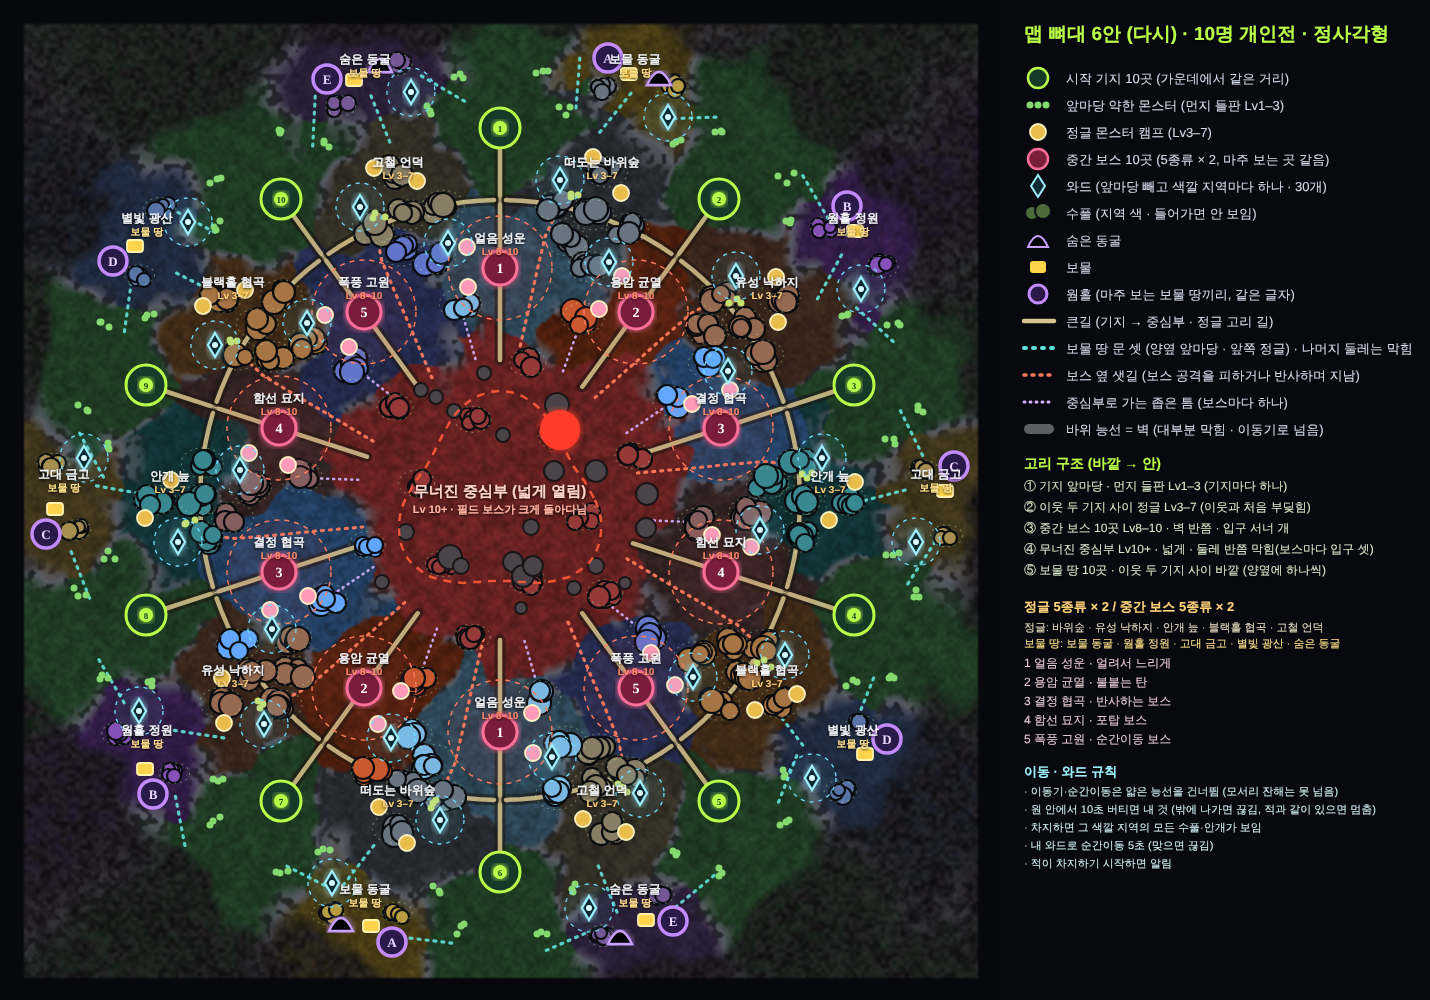
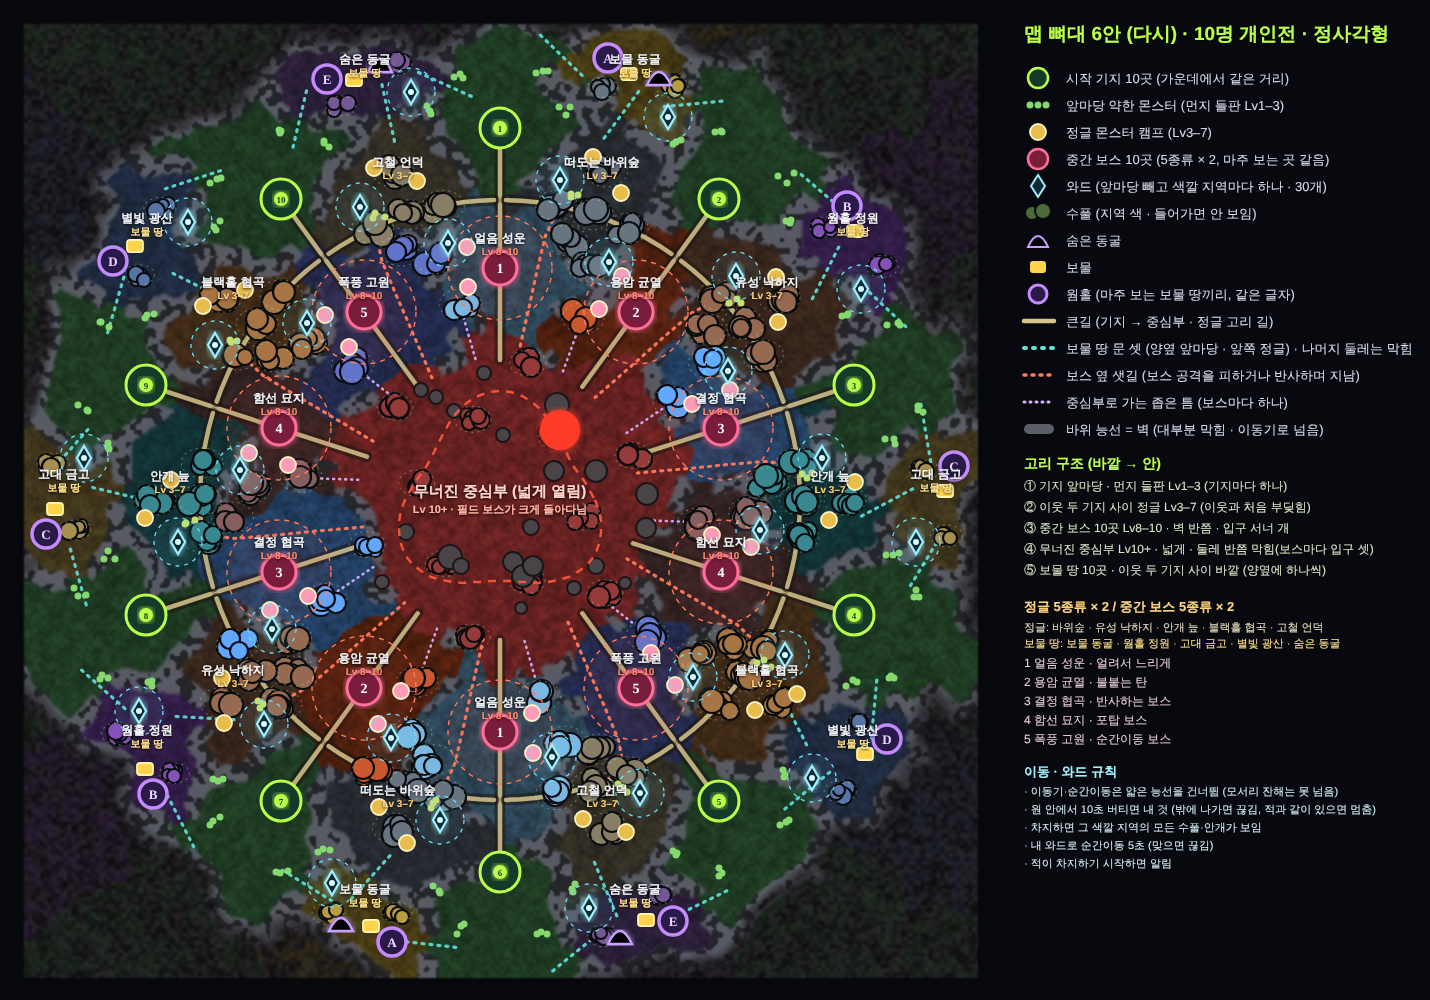
맵 설계도 = 게임 판정 그대로: 벽 두께 고정, 막힘/지나감 두 값, 갇힌 조각 정리, 문기둥
Claude-Session: https://claude.ai/code/session_01Vq6fV1iyS6nFsGgiQg3SJW

diff --git a/src/proto/worldview.js b/src/proto/worldview.js
@@ -1,9 +1,9 @@
 /* 맵 만들기 ① — 맵 6안(10명 개인전 · 정사각형)대로 바닥 · 지역 · 경계 능선 · 큰길 · 샛길 깔기
    보기: 끌면 이동, 두 손가락(휠)로 확대. 지역 이름표는 화면 위 글자. 시작 기지 자리는 빛 고리로만 표시(다음 단계에서 진짜 기지) */
 import * as THREE from 'three';
-import { makeBloom } from '../core/hangar/bloom.js?v=11030002';
-import { makeMapFloor, MAP, toWorld } from './mapfloor.js?v=11030002';
-import { makePerf } from './perf.js?v=11030002';
+import { makeBloom } from '../core/hangar/bloom.js?v=11030014';
+import { makeMapFloor, MAP, toWorld } from './mapfloor.js?v=11030014';
+import { makePerf } from './perf.js?v=11030014';
 
 const $ = s => document.querySelector(s), clamp = THREE.MathUtils.clamp;
 const VIEWS = [{ name: '게임 시점', h: 60, tilt: .3 }, { name: '지역 보기', h: 130, tilt: .25 }, { name: '맵 전체', h: 400, tilt: .02 }];
@@ -13,8 +13,8 @@ export async function start(canvas, onProgress = () => {}) {
   renderer.toneMapping = THREE.NoToneMapping; renderer.autoClear = false; renderer.setClearColor(0, 1);
   const scene = new THREE.Scene(), camera = new THREE.PerspectiveCamera(40, 1, 1, 3000), bloom = makeBloom(renderer, { samples: 0 });
   onProgress(.2);
-  const floor = await makeMapFloor(renderer, './assets/map/v6.png?v=11030002');
-  const J = await (await fetch('./assets/map/v6.json?v=11030002')).json();
+  const floor = await makeMapFloor(renderer, './assets/map/v6.png?v=11030014');
+  const J = await (await fetch('./assets/map/v6.json?v=11030014')).json();
   const SPAWN = J.spawns, ALL = [...J.labels.map(o => [o.x, o.y, o.n, o.l]), [500, 500, '무너진 중심부', 'Lv 10+']];
   onProgress(.7);
   /* 시작 기지 자리: 빛 고리 (임시) */
@@ -22,6 +22,45 @@ export async function start(canvas, onProgress = () => {}) {
     vertexShader: 'varying vec2 vP; void main(){ vP=position.xy; gl_Position=projectionMatrix*modelViewMatrix*vec4(position,1.); }',
     fragmentShader: 'uniform float uT; varying vec2 vP; void main(){ float r=length(vP); float q=(r-7.)/.6; float k=exp(-q*q)+exp(-r*r*.05)*.25*(.7+.3*sin(uT*2.)); gl_FragColor=vec4(vec3(.72,1.,.3)*k,1.); }' });
   for (const [px, py] of SPAWN) { const [x, z] = toWorld(px, py), m = new THREE.Mesh(new THREE.CircleGeometry(9, 64), ringM); m.rotation.x = -Math.PI / 2; m.position.set(x, .1, z); scene.add(m); }
+  /* 문: 길이 벽을 뚫고 지나가는 자리마다 문기둥 한 쌍 + 두 기둥 사이 바닥을 잇는 빛
+     · 왜: 벽이 끊긴 자리가 '실수로 빈 틈'이 아니라 '일부러 낸 문'이라는 걸 멀리서도 알아보게
+     · 기둥: 건메탈 몸통 + 금테 머리(기지와 같은 재료) · 안쪽 면에 빛 줄(문 종류 색)
+     · 바닥 빛: 기둥 안쪽 빛 줄에서 흘러나와 맞은편 기둥으로 건너감 → 두 기둥이 한 문틀이라는 게 보임
+       종류 색: 큰길 금빛 · 보물 땅 문 호박빛 · 보스 옆 샛길 붉은빛(위험) · 좁은 틈 보랏빛
+     무게: 기둥·머리·빛 줄·바닥 빛 각각 한 묶음(InstancedMesh) → 문이 백 개여도 그리기 4번 */
+  scene.add(new THREE.HemisphereLight(0x8a9ac0, 0x14100c, 1.1));
+  { const k = new THREE.DirectionalLight(0xfff0dc, 2.4); k.position.set(-60, 120, -40); scene.add(k); }
+  const GC = { road: [1, .78, .38], side: [1, .62, .22], aggro: [1, .3, .2], sneak: [.72, .45, 1] }, G = J.gates || [], S = MAP.SCALE;
+  const colM = new THREE.MeshStandardMaterial({ color: 0x4a4f58, metalness: .55, roughness: .42 });   /* 건메탈: 주변 반사 없이도 형태가 보이게 금속감 낮춤 */
+  const capM = new THREE.MeshStandardMaterial({ color: 0xd9a441, metalness: 1, roughness: .28, emissive: 0x3a2508 });
+  const slitM = new THREE.MeshBasicMaterial({ color: 0xffffff, toneMapped: false });
+  const colG = new THREE.CylinderGeometry(.5, .78, 3.4, 6); colG.translate(0, 1.7, 0);
+  const capG = new THREE.CylinderGeometry(.66, .5, .42, 6); capG.translate(0, 3.6, 0);
+  const slitG = new THREE.BoxGeometry(.14, 2.3, .34); slitG.translate(0, 1.75, 0);
+  const n2 = G.length * 2, cols = new THREE.InstancedMesh(colG, colM, n2), caps = new THREE.InstancedMesh(capG, capM, n2), slits = new THREE.InstancedMesh(slitG, slitM, n2);
+  const sillM = new THREE.ShaderMaterial({ transparent: true, depthWrite: false, blending: THREE.AdditiveBlending, uniforms: { uT: { value: 0 } },
+    vertexShader: 'varying vec2 vU; varying vec3 vC; varying float vS; void main(){ vU=uv; vC=instanceColor; vS=instanceMatrix[3].x*.13+instanceMatrix[3].z*.07; gl_Position=projectionMatrix*viewMatrix*modelMatrix*instanceMatrix*vec4(position,1.); }',
+    fragmentShader: `uniform float uT; varying vec2 vU; varying vec3 vC; varying float vS;
+      void main(){ float x=vU.x, y=vU.y-.5;
+        float edge=exp(-x*x*40.)+exp(-(1.-x)*(1.-x)*40.);                          /* 기둥 발밑: 빛이 나오는 곳 */
+        float band=exp(-y*y*60.);                                                    /* 문턱 한 줄 */
+        float p=fract(uT*.35+vS), d=x-p, d2=(1.-x)-p;                                /* 양쪽 기둥에서 가운데로 건너가는 빛 */
+        float run=exp(-d*d*90.)+exp(-d2*d2*90.);
+        float k=band*(.22+.55*run)+edge*band*.9;
+        gl_FragColor=vec4(vC*k,1.); }` });
+  const sillG = new THREE.PlaneGeometry(1, 1); sillG.rotateX(-Math.PI / 2);
+  const sills = new THREE.InstancedMesh(sillG, sillM, Math.max(1, G.length));
+  { const m = new THREE.Matrix4(), q = new THREE.Quaternion(), up = new THREE.Vector3(0, 1, 0), sc = new THREE.Vector3(), p = new THREE.Vector3(), c = new THREE.Color();
+    G.forEach((g, i) => { const [x, z] = toWorld(g.x, g.y), dx = Math.cos(g.a), dz = Math.sin(g.a), px = -dz, pz = dx, hw = g.w / 2 * S + .55;
+      const [r, gg, b] = GC[g.k] || GC.road; c.setRGB(r * 2.2, gg * 2.2, b * 2.2);
+      for (const s of [-1, 1]) { const j = i * 2 + (s > 0);
+        q.setFromAxisAngle(up, Math.atan2(-s * px, -s * pz)); p.set(x + px * hw * s, 0, z + pz * hw * s); sc.set(1, 1, 1);
+        m.compose(p, q, sc); cols.setMatrixAt(j, m); caps.setMatrixAt(j, m);
+        p.set(x + px * (hw - .55) * s, 0, z + pz * (hw - .55) * s); m.compose(p, q, sc); slits.setMatrixAt(j, m); slits.setColorAt(j, c); }
+      q.setFromAxisAngle(up, -Math.atan2(pz, px)); p.set(x, .12, z); sc.set(hw * 2, 1, 1.6); m.compose(p, q, sc); sills.setMatrixAt(i, m); c.setRGB(r, gg, b); sills.setColorAt(i, c); });
+    for (const o of [cols, caps, slits, sills]) { o.frustumCulled = false; scene.add(o); }
+    sills.renderOrder = 2; }
+
   /* 이름표 */
   const tagBox = $('#tags'), tags = ALL.map(([px, py, n, l]) => { const el = document.createElement('div'); el.className = 'tag'; el.innerHTML = `<b>${n}</b><span>${l}</span>`; tagBox.appendChild(el); const [x, z] = toWorld(px, py); return { el, p: new THREE.Vector3(x, 0, z) }; });
 
@@ -48,7 +87,7 @@ export async function start(canvas, onProgress = () => {}) {
     const dt = clamp((now - last) / 1000, 0, .05); last = now; t += dt;
     cam.h += (cam.H - cam.h) * Math.min(1, dt * 3); cam.tilt += (cam.T - cam.tilt) * Math.min(1, dt * 3);
     camera.position.set(cam.x, cam.h * Math.cos(cam.tilt), cam.z + cam.h * Math.sin(cam.tilt)); camera.lookAt(cam.x, 0, cam.z);
-    floor.update(t); ringM.uniforms.uT.value = t;
+    floor.update(t); ringM.uniforms.uT.value = t; sillM.uniforms.uT.value = t;
     for (const g of tags) { v.copy(g.p).project(camera); const on = v.z < 1 && Math.abs(v.x) < 1.1 && Math.abs(v.y) < 1.1;
       g.el.style.opacity = on ? 1 : 0; if (on) g.el.style.transform = `translate(${(v.x * .5 + .5) * cw}px,${(-v.y * .5 + .5) * ch}px) translate(-50%,-50%)`; }
     renderer.setRenderTarget(bloom.scene); renderer.clear(); floor.render(camera, bloom.scene); renderer.render(scene, camera);

diff --git a/src/proto/mapfloor.js b/src/proto/mapfloor.js
@@ -84,12 +84,14 @@ export async function makeMapFloor(renderer, url) {
         if (id==17) { float rb=texture2D(uN,vW.xz*.03).r; c = vec3(.035,.035,.04)*(.5+1.2*rb) + vec3(.06,.055,.05)*smoothstep(.55,.75,texture2D(uN,vW.xz*.11).b); }   /* 소행성 잔해: 울퉁불퉁 짙은 돌 */
         /* 지역 경계 = 짙은 바위 능선 (나중에 벽이 섬) */
         /* 바위 능선(벽 자리): 바닥보다 확 밝은 돌 띠 + 짙은 그림자 테두리 + 윗면 빛 → 멀리서도 '못 지나가는 곳'이 보이게 */
-        float rk = smoothstep(.12,.42,ridge);
-        float rim = smoothstep(.05,.14,ridge)*(1.-smoothstep(.16,.3,ridge))*(1.-smoothstep(.2,.45,road));   /* 띠 바깥 그림자 (길이 지나는 문에는 없음) */
+        /* 벽 자리 그림은 막힘(1)/지나감(0) 둘뿐 → 보이는 돌 띠 = 실제로 부딪히는 자리. 경계 판정은 게임과 같은 .5 */
+        float rk = smoothstep(.4,.6,ridge);
+        float sh = (texture2D(uRs,uv+vec2(.004,0.)).g + texture2D(uRs,uv-vec2(.004,0.)).g + texture2D(uRs,uv+vec2(0.,.004)).g + texture2D(uRs,uv-vec2(0.,.004)).g)*.25;
+        float rim = smoothstep(0.,.5,sh)*(1.-rk)*(1.-smoothstep(.2,.45,road));   /* 벽 바로 바깥 그림자: 벽이 바닥에서 솟아 있다는 느낌 (벽 크기는 안 바뀜) */
         float tn = texture2D(uN,vW.xz*.06).b, tn2 = texture2D(uN,vW.xz*.18).r;
         vec3 rockC = vec3(.30,.31,.34)*(.65+.55*tn) + vec3(.14,.14,.15)*smoothstep(.55,.8,tn2);      /* 밝은 회색 돌, 군데군데 더 밝은 면 */
-        rockC *= .75 + .45*smoothstep(.45,.9,ridge);                                                   /* 띠 가운데(등선)가 가장 밝음 */
-        c = mix(c, c*.25, rim);
+        rockC *= .8 + .35*smoothstep(.5,1.,sh);                                                         /* 벽 안쪽 깊은 곳(등선)이 더 밝음 */
+        c = mix(c, c*.3, rim*.85);
         c = mix(c, rockC, rk);
         /* 반짝임 물결 (지역마다) */
         vec2 gq=vW.xz*.5; vec2 gc=floor(gq); float gh=h2(gc);

diff --git a/src/proto/padringview.js b/src/proto/padringview.js
@@ -1,17 +1,17 @@
 /* 시작 기지 부품 보기 ① — 자기장 판(격납고 그대로) + 금테 네 갈래 별 */
 import * as THREE from 'three';
 import { RoomEnvironment } from 'three/addons/environments/RoomEnvironment.js';
-import { makeBloom } from '../core/hangar/bloom.js?v=11030002';
-import { makePad } from '../core/hangar/pad.js?v=11030002';
-import { makeMag } from '../core/hangar/mag.js?v=11030002';
+import { makeBloom } from '../core/hangar/bloom.js?v=11030014';
+import { makePad } from '../core/hangar/pad.js?v=11030014';
+import { makeMag } from '../core/hangar/mag.js?v=11030014';
 import { buildShip, engineSpots } from '../core/ships/build.js';
-import { makeGoldStar } from './goldstar.js?v=11030002';
-import { makeArena, SPEED, WAVE_R0 } from './arena.js?v=11030002';
-import { makeGuardians, GUARD } from './guardian.js?v=11030002';
-import { makeFloor, FLOORS } from './floor.js?v=11030002';
-import { makePerf } from './perf.js?v=11030002';
-import { makeBirth, BIRTH } from './birth.js?v=11030002';
-import { makeSortie, SORTIE } from './sortie.js?v=11030002';
+import { makeGoldStar } from './goldstar.js?v=11030014';
+import { makeArena, SPEED, WAVE_R0 } from './arena.js?v=11030014';
+import { makeGuardians, GUARD } from './guardian.js?v=11030014';
+import { makeFloor, FLOORS } from './floor.js?v=11030014';
+import { makePerf } from './perf.js?v=11030014';
+import { makeBirth, BIRTH } from './birth.js?v=11030014';
+import { makeSortie, SORTIE } from './sortie.js?v=11030014';
 
 const $ = s => document.querySelector(s), clamp = THREE.MathUtils.clamp;
 const SHIPL = 2.9;     /* 기체 길이: 자기장 판(지름 3.2)보다 약간 작게 */

diff --git a/src/proto/rockview.js b/src/proto/rockview.js
@@ -1,18 +1,18 @@
 /* 벽 보기 (지금은 용암 흑요석) — 맵 미리보기와 같은 하늘(행성 위 궤도), 같은 위에서 본 카메라 */
 import * as THREE from 'three';
 import { RoomEnvironment } from 'three/addons/environments/RoomEnvironment.js';
-import { makeBloom } from '../core/hangar/bloom.js?v=11030002';
-import { makePerf } from './perf.js?v=11030002';
+import { makeBloom } from '../core/hangar/bloom.js?v=11030014';
+import { makePerf } from './perf.js?v=11030014';
 import { buildShip, engineSpots } from '../core/ships/build.js';
 import { makeGlow } from '../preview/glow.js';
 import { planetShader } from '../core/planet.js';
 import { planetFor } from '../data/planets.js';
-import { makeIceRidge } from './ice.js?v=11030002';
-import { makeCrystalRidge } from './crystal.js?v=11030002';
-import { makeRuinRidge, updateRuins } from './ruins.js?v=11030002';
-import { makeCoralRidge } from './coral.js?v=11030002';
-import { makeWalls } from './wallhit.js?v=11030002';
-import { makeRidge, updateRidge, hitWall } from './rocks.js?v=11030002';
+import { makeIceRidge } from './ice.js?v=11030014';
+import { makeCrystalRidge } from './crystal.js?v=11030014';
+import { makeRuinRidge, updateRuins } from './ruins.js?v=11030014';
+import { makeCoralRidge } from './coral.js?v=11030014';
+import { makeWalls } from './wallhit.js?v=11030014';
+import { makeRidge, updateRidge, hitWall } from './rocks.js?v=11030014';
 
 const $ = s => document.querySelector(s), clamp = THREE.MathUtils.clamp, rnd = (a, b) => a + Math.random() * (b - a);
 const VIEWS = [

diff --git a/src/proto/baseview.js b/src/proto/baseview.js
@@ -5,17 +5,17 @@
    모든 움직임은 판의 자기장 주기(4.2초)에 맞춘다 — 판에 불이 다 들어오는 순간 기체가 뜬다. */
 import * as THREE from 'three';
 import { RoomEnvironment } from 'three/addons/environments/RoomEnvironment.js';
-import { makeBloom } from '../core/hangar/bloom.js?v=11030002';
-import { makePad } from '../core/hangar/pad.js?v=11030002';
-import { makeMag } from '../core/hangar/mag.js?v=11030002';
+import { makeBloom } from '../core/hangar/bloom.js?v=11030014';
+import { makePad } from '../core/hangar/pad.js?v=11030014';
+import { makeMag } from '../core/hangar/mag.js?v=11030014';
 import { buildShip, engineSpots } from '../core/ships/build.js';
 import { makeGlow } from '../preview/glow.js';
 import { filmMaterial, crystalMaterial } from '../preview/fxmat.js';
 import { planetShader } from '../core/planet.js';
 import { planetFor } from '../data/planets.js';
-import { makeRidge, updateRidge } from './rocks.js?v=11030002';
-import { makeFloor, FLOORS } from './floor.js?v=11030002';
-import { makePerf } from './perf.js?v=11030002';
+import { makeRidge, updateRidge } from './rocks.js?v=11030014';
+import { makeFloor, FLOORS } from './floor.js?v=11030014';
+import { makePerf } from './perf.js?v=11030014';
 
 const $ = s => document.querySelector(s), clamp = THREE.MathUtils.clamp, lerp = THREE.MathUtils.lerp, rnd = (a, b) => a + Math.random() * (b - a);
 const ease = t => t < .5 ? 4 * t * t * t : 1 - Math.pow(-2 * t + 2, 3) / 2;

diff --git a/index.html b/index.html
@@ -149,12 +149,12 @@ button{font:inherit;color:inherit;background:none;border:0;padding:0;cursor:poin
   <a class="sub" href="reflect.html">반사 시험판으로</a>
   <a class="sub" href="map.html?v=11021548">맵 미리보기</a>
   <a class="sub" href="tools/ships.html">기체·도색 보기</a>
-  <a class="sub" href="rocks.html?v=11030002">맵 벽 보기</a>
+  <a class="sub" href="rocks.html?v=11030014">맵 벽 보기</a>
   <a class="sub" href="floor.html?v=11021548">지역 바닥 보기</a>
-  <a class="sub" href="base.html?v=11030002">시작 기지 보기</a>
-  <a class="sub" href="padring.html?v=11030002">시작 기지: 태어나는 곳</a>
-  <a class="sub" href="fall.html?v=11030002">유성 시안</a>
-  <a class="sub" href="world.html?v=11030002">맵 만들기</a>
+  <a class="sub" href="base.html?v=11030014">시작 기지 보기</a>
+  <a class="sub" href="padring.html?v=11030014">시작 기지: 태어나는 곳</a>
+  <a class="sub" href="fall.html?v=11030014">유성 시안</a>
+  <a class="sub" href="world.html?v=11030014">맵 만들기</a>
 </div></section>
 <section class="card ask" id="lvup" hidden><div>
   <span class="en">LEVEL UP</span><h3 style="margin:0;font-weight:500;font-size:20px;color:var(--g)">레벨 2</h3>

diff --git a/src/proto/meteorview.js b/src/proto/meteorview.js
@@ -9,11 +9,11 @@
    무게: 빛 가닥 700개는 한 묶음으로 한 번에(위치는 셰이더가 계산), 부스러기는 점 묶음 한 번 */
 import * as THREE from 'three';
 import { RoomEnvironment } from 'three/addons/environments/RoomEnvironment.js';
-import { makeBloom } from '../core/hangar/bloom.js?v=11030002';
-import { makePad } from '../core/hangar/pad.js?v=11030002';
-import { makeGoldStar } from './goldstar.js?v=11030002';
-import { makePerf } from './perf.js?v=11030002';
-import { makeMeteor, METEOR } from './meteor.js?v=11030002';
+import { makeBloom } from '../core/hangar/bloom.js?v=11030014';
+import { makePad } from '../core/hangar/pad.js?v=11030014';
+import { makeGoldStar } from './goldstar.js?v=11030014';
+import { makePerf } from './perf.js?v=11030014';
+import { makeMeteor, METEOR } from './meteor.js?v=11030014';
 
 const $ = s => document.querySelector(s), clamp = THREE.MathUtils.clamp;
 const { FALL } = METEOR, LINGER = .8, REST = .7, CYCLE = REST + FALL + LINGER;

diff --git a/src/proto/ice.js b/src/proto/ice.js
@@ -6,7 +6,7 @@
    투명 재질(뒤를 비추는 계산)은 폰에 무거워서 쓰지 않고, 속은 보는 방향으로 몇 겹 들여다본 잡음으로 흉내 낸다. */
 import * as THREE from 'three';
 import { mergeVertices } from 'three/addons/utils/BufferGeometryUtils.js';
-import { HITS } from './rocks.js?v=11030002';
+import { HITS } from './rocks.js?v=11030014';
 
 function hash(a, b, c) { const s = Math.sin(a * 127.1 + b * 311.7 + c * 74.7) * 43758.5453; return s - Math.floor(s); }
 function vn(x, y, z) { const ix = Math.floor(x), iy = Math.floor(y), iz = Math.floor(z), fx = x - ix, fy = y - iy, fz = z - iz, s = t => t * t * (3 - 2 * t), u = s(fx), v = s(fy), w = s(fz), L = (a, b, t) => a + (b - a) * t;

diff --git a/src/proto/sortie.js b/src/proto/sortie.js
@@ -8,7 +8,7 @@
    지나간 길엔 짧은 엔진 빛 꼬리가 남았다 빠르게 사라짐. 적 탄이 막에 맞아 물결치는 것·실제 이동 속도는 맵이 생기면 연결
    무게: 불꽃·꼬리는 띠 몇 장, 막은 구 하나, 방울은 점 묶음 하나, 충격파 일그러짐은 빛 번짐 마무리 단계에 얹음 */
 import * as THREE from 'three';
-import { filmMaterial } from '../preview/fxmat.js?v=11030002';
+import { filmMaterial } from '../preview/fxmat.js?v=11030014';
 
 export const SORTIE = { IGN: .55, SHIELD: 3, BOOST: 5 };
 const AB = { transparent: true, depthWrite: false, blending: THREE.AdditiveBlending };

diff --git a/src/proto/arena.js b/src/proto/arena.js
@@ -7,8 +7,8 @@
    단위는 자기장 판과 같음. */
 import * as THREE from 'three';
 import { mergeGeometries } from 'three/addons/utils/BufferGeometryUtils.js';
-import { sweep, posNor } from './floatring.js?v=11030002';
-import { GUARD_ANG, GUARD, guardScale } from './guardian.js?v=11030002';
+import { sweep, posNor } from './floatring.js?v=11030014';
+import { GUARD_ANG, GUARD, guardScale } from './guardian.js?v=11030014';
 
 
 /* 건담처럼 장갑판을 조립한 느낌의 검은 판 선 — 면 위치로 바로 그림(텍스처 없음, 가벼움)

diff --git a/src/proto/crystal.js b/src/proto/crystal.js
@@ -5,7 +5,7 @@
    · 맞으면: 맞은 자리 근처(지름 3m 남짓) 결정 속으로 들어간 빛이 면마다 다르게 꺾여 면마다 다른 색으로 0.7초쯤 반짝인다(칠한 무지개가 아님).
      맞은 결정은 움찔 움츠러들었다가 다시 뻗는다. */
 import * as THREE from 'three';
-import { HITS } from './rocks.js?v=11030002';
+import { HITS } from './rocks.js?v=11030014';
 
 /* 결정 하나 (밑 0 ~ 기둥 끝 1 ~ 머리 꼭짓점 1.0+tip). 모든 삼각형을 바깥쪽으로 맞춘다 */
 function prism(seed) {

diff --git a/base.html b/base.html
@@ -69,7 +69,7 @@ window.__ver = fetch('ver.json?t=' + Date.now(), { cache: 'no-store' }).then(r =
 <div id="load"><p>기지를 세우고 있어요</p><div class="b"><i></i></div></div>
 <div id="rot">기기를 가로로 돌려 주세요</div>
 <script type="module">
-import { start } from './src/proto/baseview.js?v=11030002';
+import { start } from './src/proto/baseview.js?v=11030014';
 await window.__ver;
 const bar = document.querySelector('#load i');
 start(document.querySelector('#cv'), p => { bar.style.transform = `scaleX(${p})`; })
